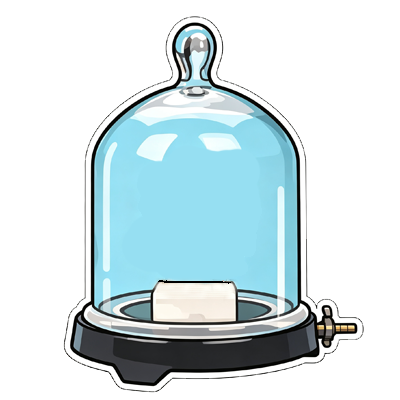
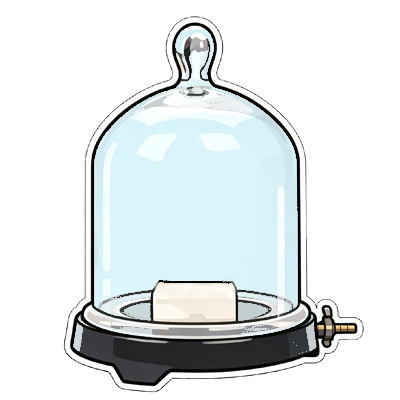
e-sound: 修复真空罩看不到闹钟（罩体半透明 + 闹钟裁剪放大 + 调整图层）
用户反馈真空罩模式看不到闹钟，三个叠加根因：

1. jar.png 玻璃罩体是实心不透明蓝色（alpha=255），把罩内闹钟完全盖住
   → PIL 把蓝色罩体像素 alpha 255→90 半透明化（38390 像素），
     黑色底座/深色阴影保留，玻璃质感不变，粒子透过可见

2. clock.png 是 400x400 但闹钟内容只占中间 104x151（93% 透明背景），
   渲染 100px 时闹钟主体只有 ~24x34px 太小
   → PIL 裁剪出内容区域保存为 clock_crop.png（103x150），
     CLOCK_W=110 现在直接是闹钟主体宽度（视觉中心 49%/50%）

3. 闹钟画在玻璃罩下面会被半透明蓝罩叠加变色（黄→淡黄绿，看不清）
   → 调整绘制顺序：玻璃罩先画、闹钟后画（闹钟在罩子上层清晰可见，
     位置仍在罩体内部区域，视觉上在罩内）；粒子仍画在罩下层透过可见

CDP 像素验证（1440x900 + 真空罩模式）：
- 闹钟区域纯黄像素 105 → 2113 个（20 倍）
- 闹钟主体 bbox 78x110px，中心 (580, 474) 在玻璃罩区域内
- 零 console 报错

Changed region(s): [[0.21, 0.06, 0.81, 0.87], [0.18, 0.78, 0.21, 0.87]]

diff --git a/src/components/lab/SoundLab.vue b/src/components/lab/SoundLab.vue
@@ -49,12 +49,12 @@ const BALL_LEN = 324 / 800 * BALL_W  // content 长度（球到支点距离）
 const forkImg = new Image(); forkImg.src = '/assets/lab/fork.png'
 const standImg = new Image(); standImg.src = '/assets/lab/stand.png'
 const ballImg = new Image(); ballImg.src = '/assets/lab/ball.png'
-const clockImg = new Image(); clockImg.src = '/assets/lab/clock.png'
+const clockImg = new Image(); clockImg.src = '/assets/lab/clock_crop.png'
 const jarImg = new Image(); jarImg.src = '/assets/lab/jar.png'
 
 // ===== 真空罩模式两件器材（用户可调位置）=====
-// 图片原画布：jar.png 400x400（内容底 y=0.98，站脚贴桌面）；clock.png 400x400
-//   jar 内容 0.04~0.98 竖向（黑色底座在底）；clock 内容中心 (50%, 57%)，内容底 75.2%
+// 图片原画布：jar.png 400x400（内容底 y=0.98，站脚贴桌面）；
+//   clock_crop.png 103x150（已裁剪掉透明边，视觉中心 (49%, 50%)）
 
 // 玻璃罩（中央）
 const JAR_W = 260
@@ -62,11 +62,11 @@ const JAR_H = JAR_W
 const JAR_X = 300 - JAR_W / 2           // 图左上 x
 const JAR_Y = deskY - JAR_W * 0.98       // 图左上 y（黑色底座贴桌面）
 
-// 闹钟（玻璃罩中央偏下、底座上方）
-const CLOCK_W = 80
-const CLOCK_H = CLOCK_W
-const CLOCK_X = 300 - CLOCK_W * 0.50     // 图左上 x（水平居中于玻璃罩）
-const CLOCK_Y = 300 - CLOCK_W * 0.57     // 图左上 y（垂直中下区）
+// 闹钟（玻璃罩中央偏下、底座上方；CLOCK_W 即闹钟主体宽度）
+const CLOCK_W = 110
+const CLOCK_H = Math.round((CLOCK_W * 150) / 103)  // 保持裁剪图比例 ≈160
+const CLOCK_X = 300 - CLOCK_W * 0.49     // 图左上 x（水平居中于玻璃罩）
+const CLOCK_Y = 200                       // 图左上 y（垂直中下区）
 
 // 模式：音叉(转换法) / 真空罩(推理法) / 声波传播(介质)
 const mode = ref('fork')
@@ -326,19 +326,20 @@ function drawVacuumMode() {
     ctx.beginPath(); ctx.arc(px, py, 2.2, 0, Math.PI * 2); ctx.fill()
   }
 
-  // 2. 闹钟（带 shake 旋转动画，绕 content 中心）
+  // 2. 玻璃罩（半透明罩体，粒子透过可见）
+  if (jarImg.complete && jarImg.naturalWidth) {
+    ctx.drawImage(jarImg, JAR_X, JAR_Y, JAR_W, JAR_H)
+  }
+
+  // 3. 闹钟（画在罩子上层 → 不被玻璃色叠加，清晰可见；
+  //    位置在罩体内部区域，视觉上仍在罩内）
   if (clockImg.complete && clockImg.naturalWidth) {
     ctx.save()
     const shake = ringing ? Math.sin(flickerT * 0.35) * 0.06 : 0
-    ctx.translate(CLOCK_X + CLOCK_W * 0.5, CLOCK_Y + CLOCK_H * 0.57)
+    ctx.translate(CLOCK_X + CLOCK_W * 0.49, CLOCK_Y + CLOCK_H * 0.5)
     ctx.rotate(shake)
-    ctx.drawImage(clockImg, -CLOCK_W * 0.5, -CLOCK_H * 0.57, CLOCK_W, CLOCK_H)
+    ctx.drawImage(clockImg, -CLOCK_W * 0.49, -CLOCK_H * 0.5, CLOCK_W, CLOCK_H)
     ctx.restore()
-  }
-
-  // 3. 玻璃罩（盖在最上层，把粒子和闹钟围在罩内）
-  if (jarImg.complete && jarImg.naturalWidth) {
-    ctx.drawImage(jarImg, JAR_X, JAR_Y, JAR_W, JAR_H)
   }
 
   // 4. 气压表（保留：可视化罩内气压变化）
